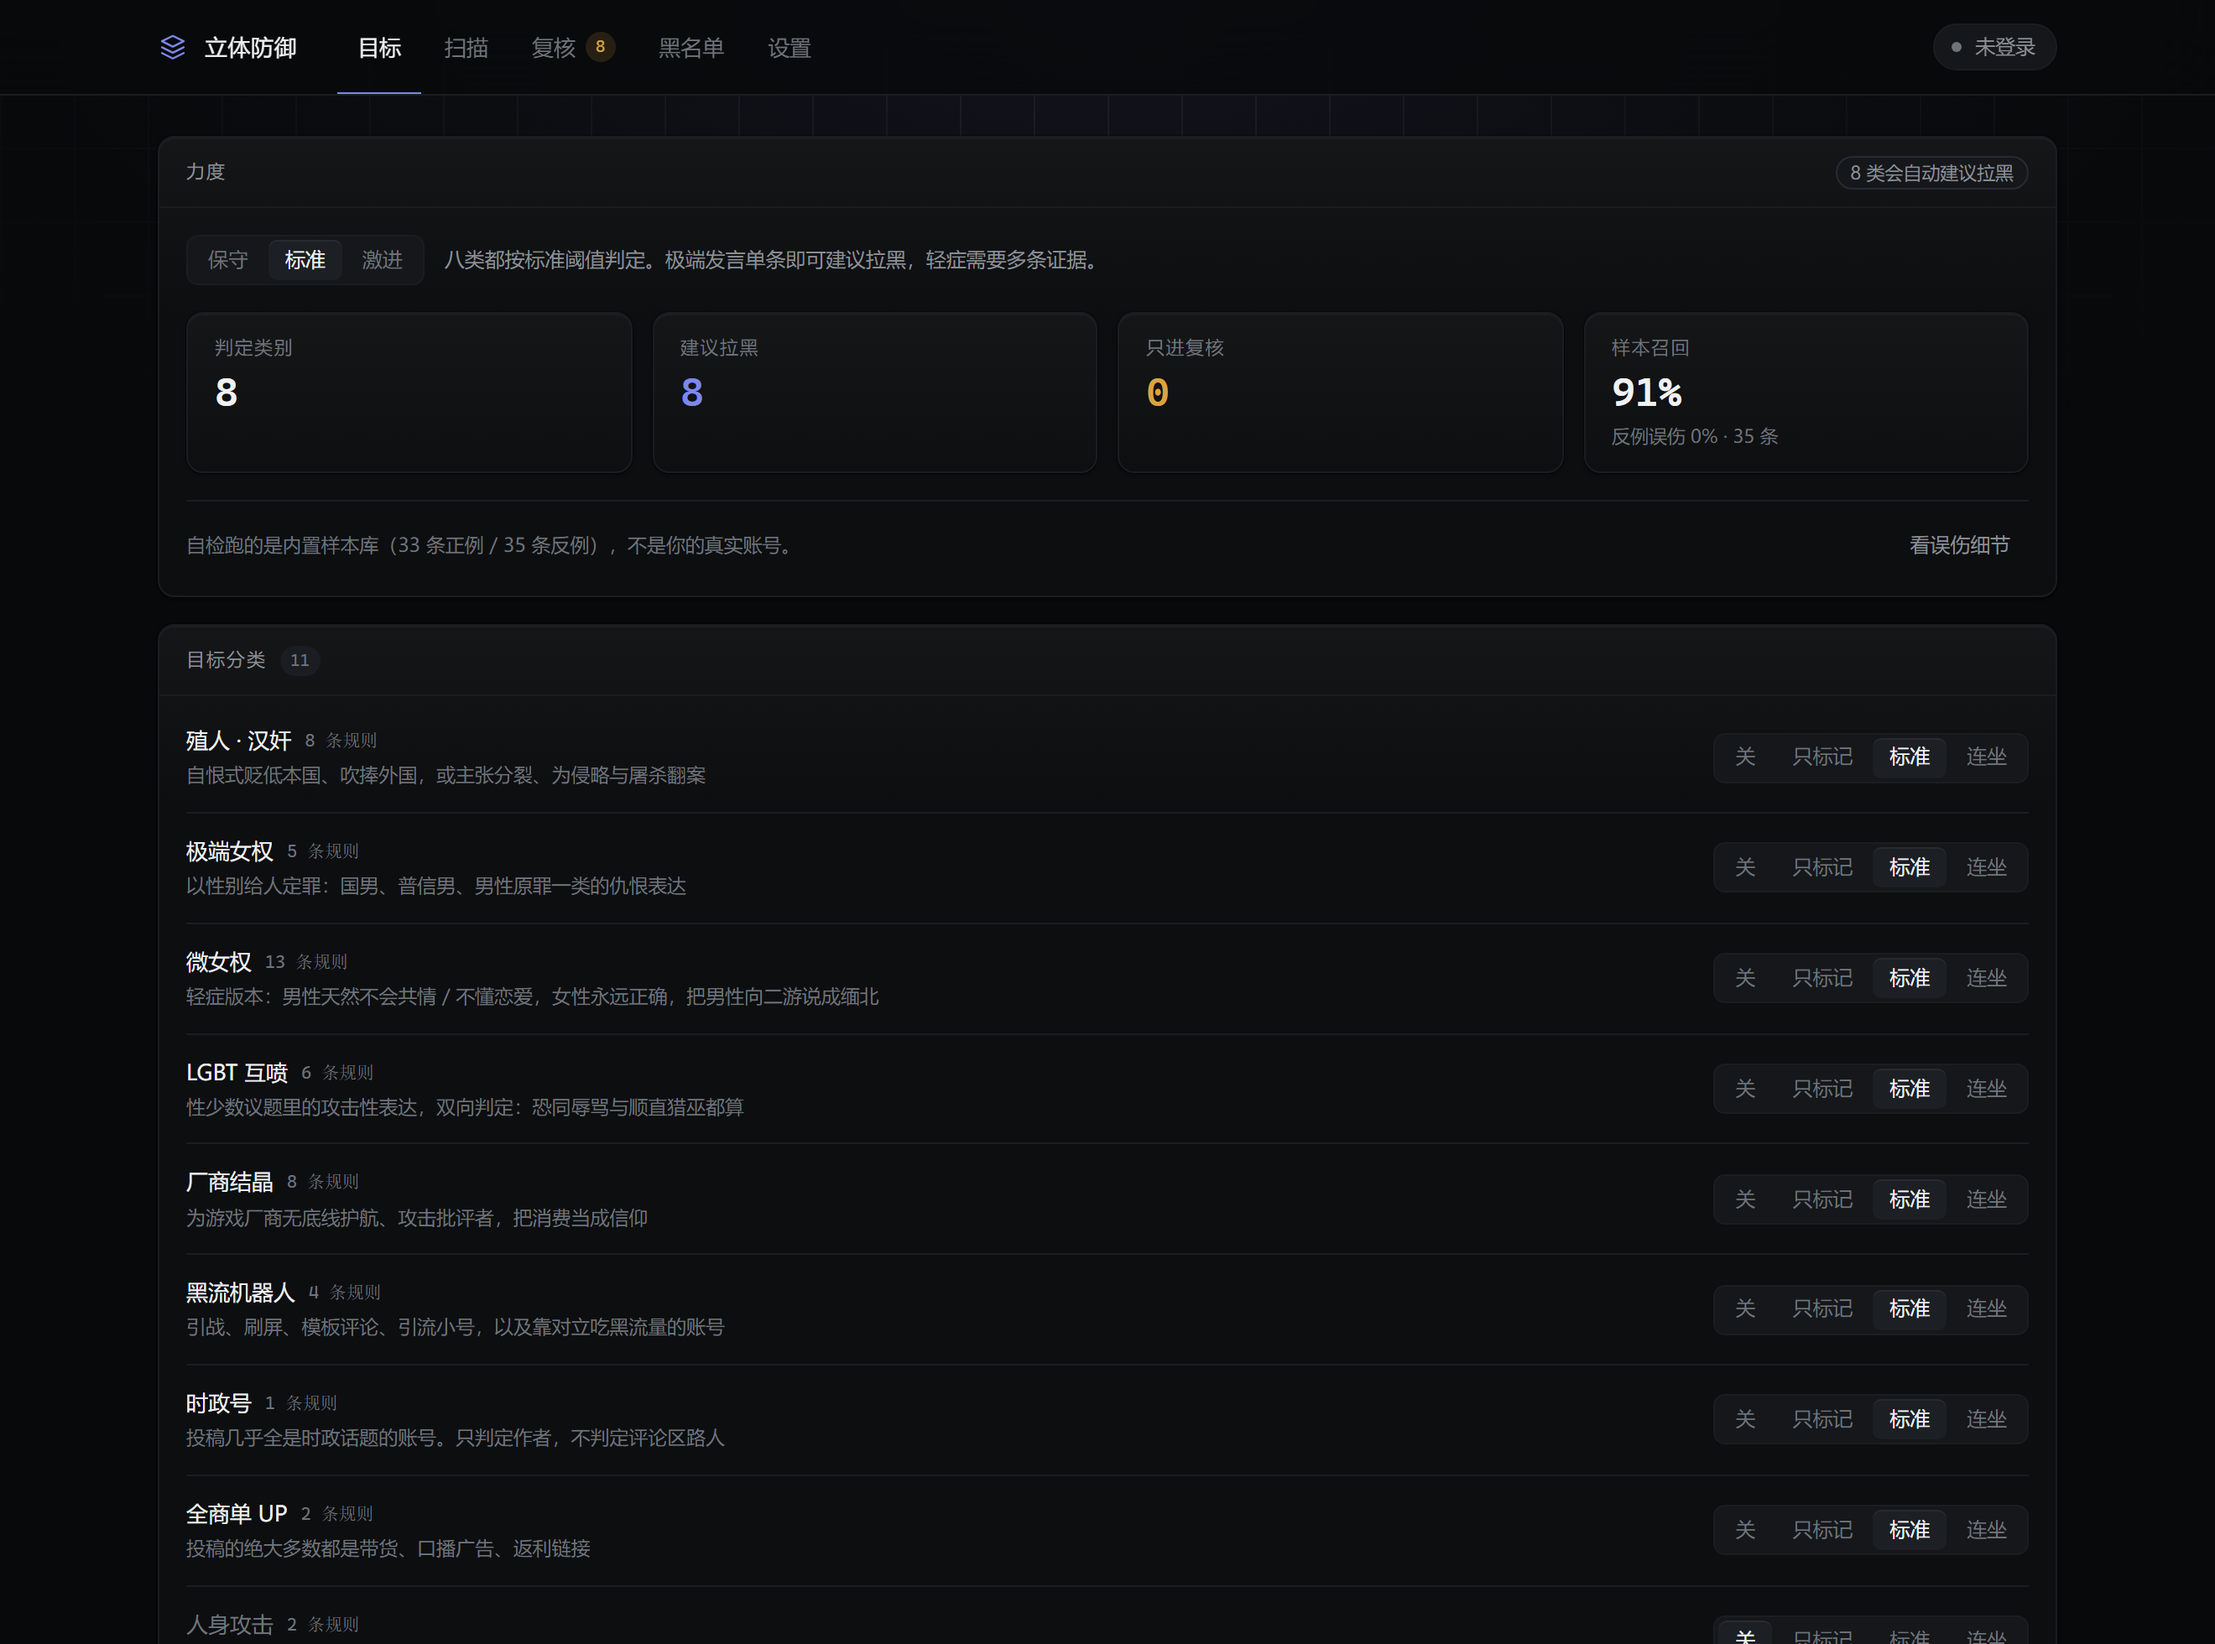
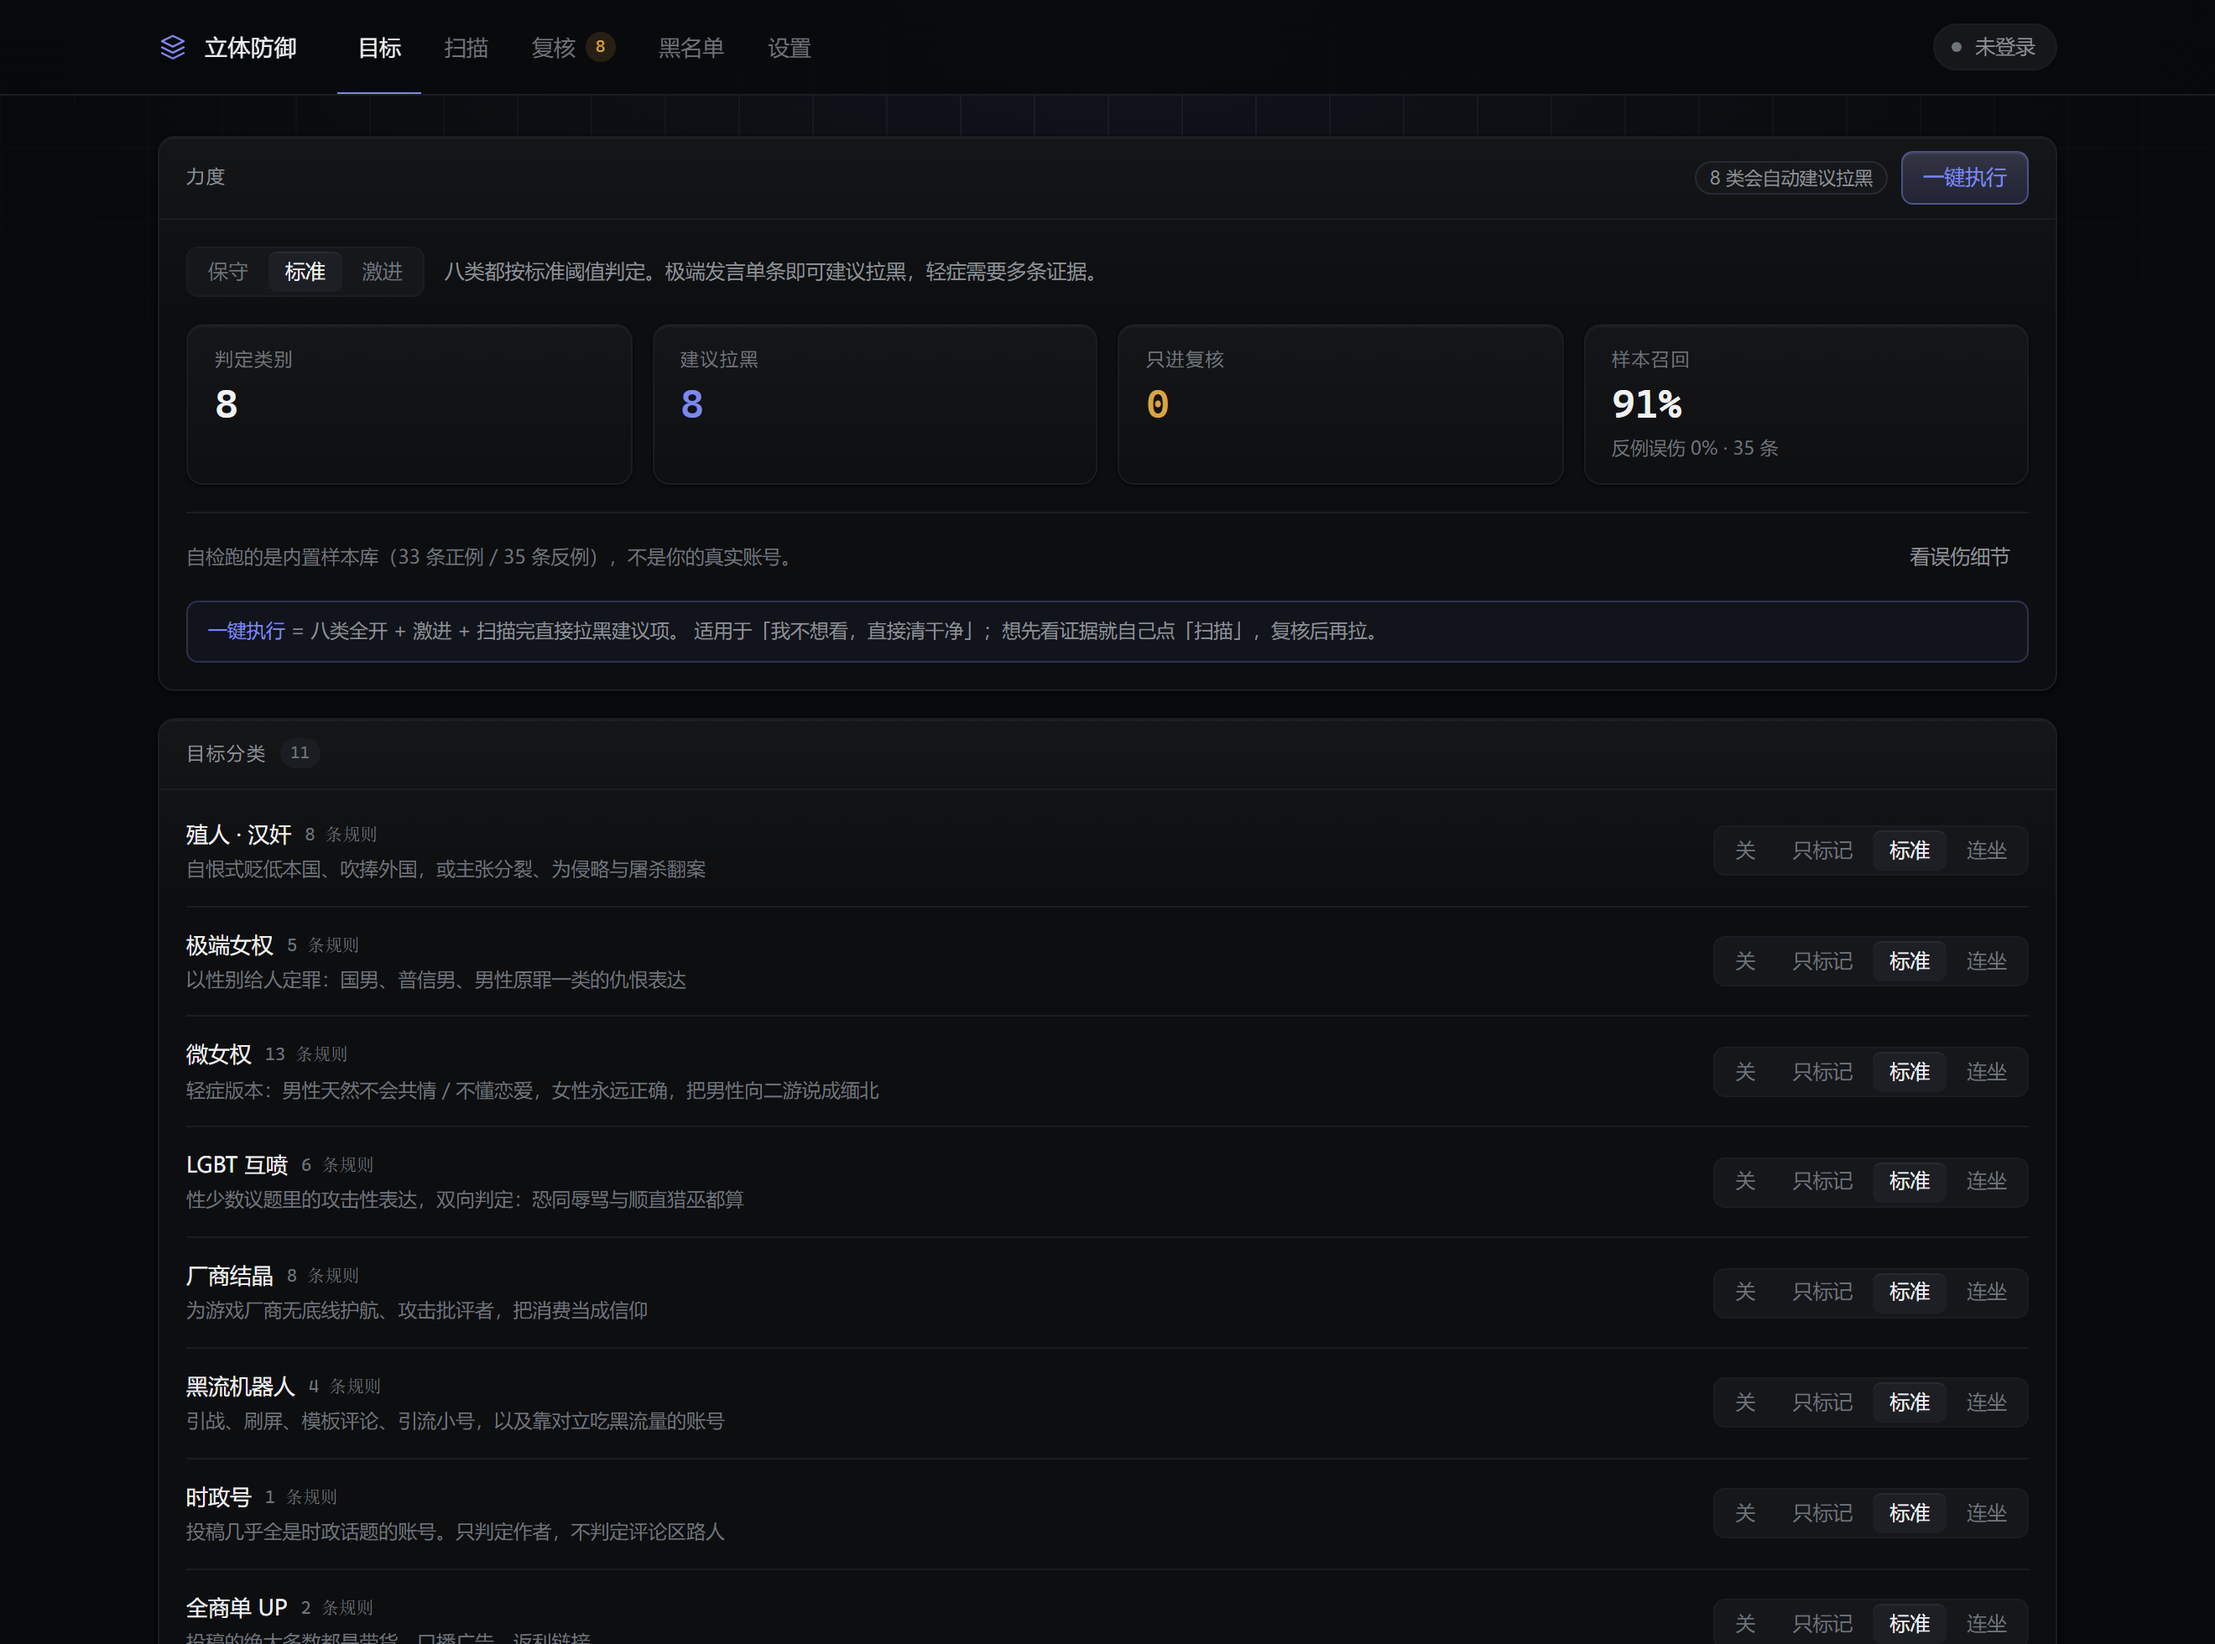
加一键执行：八类全开 + 激进 + 扫描完自动拉黑
- 目标页新增「一键执行」，跳到扫描页自动开跑

- 扫描页可勾选「扫描完直接拉黑建议项」，单次上限 100

- 拉黑逻辑抽成 executor，复核与自动执行共用同一条链路

diff --git a/src/app/views/TargetsView.tsx b/src/app/views/TargetsView.tsx
@@ -35,6 +35,7 @@ export function TargetsView() {
   const setMode = useStore((s) => s.setMode)
   const setPreset = useStore((s) => s.setPreset)
   const setTargets = useStore((s) => s.setTargets)
+  const setSettings = useStore((s) => s.setSettings)
   const setTab = useStore((s) => s.setTab)
   const [advanced, setAdvanced] = useState(false)
 
@@ -50,7 +51,22 @@ export function TargetsView() {
     <div className="grid gap-4">
       <Panel
         title="力度"
-        right={<Tag tone="dim">{blockFamilies.length} 类会自动建议拉黑</Tag>}
+        right={
+          <>
+            <Tag tone="dim">{blockFamilies.length} 类会自动建议拉黑</Tag>
+            <Btn
+              variant="primary"
+              onClick={() => {
+                setPreset('aggressive')
+                setSettings({ autoBlock: true })
+                useStore.getState().setAutoRun(true)
+                setTab('scan')
+              }}
+            >
+              一键执行
+            </Btn>
+          </>
+        }
       >
         <div className="flex flex-wrap items-center gap-3">
           <Segmented
@@ -89,6 +105,11 @@ export function TargetsView() {
           <Btn size="sm" variant="ghost" onClick={() => setTab('settings')}>
             看误伤细节
           </Btn>
+        </div>
+
+        <div className="mt-3 rounded-md border border-accent/25 bg-accent/[0.05] px-3 py-2 text-[11.5px] leading-relaxed text-dim">
+          <span className="text-accent">一键执行</span> = 八类全开 + 激进 + 扫描完直接拉黑建议项。
+          适用于「我不想看，直接清干净」；想先看证据就自己点「扫描」，复核后再拉。
         </div>
       </Panel>
 

diff --git a/src/app/views/ScanView.tsx b/src/app/views/ScanView.tsx
@@ -1,4 +1,4 @@
-import { useMemo, useRef, useState } from 'react'
+import { useEffect, useMemo, useRef, useState } from 'react'
 import { Alert, Btn, Empty, Field, NumberInput, Panel, Progress, Stat, Switch, Tag, cn } from '../ui'
 import { useStore } from '../../lib/store'
 import { DEFAULT_BUDGET, isAborted, runScan, type ScanProgress } from '../../lib/scan'
@@ -38,6 +38,8 @@ export function ScanView() {
   const setTab = useStore((s) => s.setTab)
   const setCandidates = useStore((s) => s.setCandidates)
   const addBlacklist = useStore((s) => s.addBlacklist)
+  const autoRun = useStore((s) => s.autoRun)
+  const setAutoRun = useStore((s) => s.setAutoRun)
   const candidates = useStore((s) => s.candidates)
   const blacklist = useStore((s) => s.blacklist)
   const ignored = useStore((s) => s.ignored)
@@ -141,6 +143,16 @@ export function ScanView() {
       abortRef.current = null
     }
   }
+
+  // 「目标」页点「一键执行」后，这里自动开跑
+  const autoStarted = useRef(false)
+  useEffect(() => {
+    if (!autoRun || autoStarted.current) return
+    autoStarted.current = true
+    setAutoRun(false)
+    void start()
+    // eslint-disable-next-line react-hooks/exhaustive-deps
+  }, [autoRun])
 
   const pct = progress && progress.total > 0 ? Math.round((progress.done / progress.total) * 100) : 0
   const blocked = candidates.filter((c) => c.verdict === 'block').length

diff --git a/src/lib/store.ts b/src/lib/store.ts
@@ -99,6 +99,9 @@ interface State {
   /** 上一次批量拉黑的 mid，用于一键撤销 */
   lastBatch: number[]
   setLastBatch: (mids: number[]) => void
+  /** 一次性开关：从「目标」页点一键执行后，扫描页自动开跑 */
+  autoRun: boolean
+  setAutoRun: (v: boolean) => void
   setSettings: (patch: Partial<Settings>) => void
   setLlm: (patch: Partial<LlmConfig>) => void
   setBudget: (patch: Partial<ScanBudget>) => void
@@ -151,6 +154,8 @@ export const useStore = create<State>()(
       lastScan: 0,
       lastBatch: [],
       setLastBatch: (mids) => set({ lastBatch: mids }),
+      autoRun: false,
+      setAutoRun: (v) => set({ autoRun: v }),
       setSettings: (patch) => set({ settings: { ...get().settings, ...patch } }),
       setLlm: (patch) => set({ settings: { ...get().settings, llm: { ...get().settings.llm, ...patch } } }),
       setBudget: (patch) => set({ settings: { ...get().settings, budget: { ...get().settings.budget, ...patch } } }),

diff --git a/README.md b/README.md
@@ -132,10 +132,11 @@ pnpm eval -v     # 逐条看漏判与误伤
 
 ### 最短路径
 
-1. 「目标」→ 点一次 **激进**（八类全开、阈值下调、允许连坐）。
-2. 「扫描」→ 勾 **扫描完直接拉黑「建议拉黑」**（第一次建议先不勾，跑一遍看复核）。
-3. 点 **开始扫描**，等 3–5 分钟。
-4. 「黑名单」里核对结果，误伤的逐条「解除」，或直接 **撤销上一批**。
+1. 「目标」→ 点 **一键执行**（八类全开 + 激进 + 扫描完直接拉黑建议项）。
+2. 等 3–5 分钟，扫描和拉黑会连着跑完。
+3. 「黑名单」里核对结果，误伤的逐条「解除」，或直接 **撤销上一批**。
+
+想先看证据就不点一键，改成「目标」选力度 → 「扫描」不勾自动拉黑 → 复核后手动拉。
 
 拉黑必须在你自己的浏览器里执行：接口要 `SESSDATA` + `bili_jct`，还要过 B 站的风控指纹，命令行里没有你的登录态。
 
